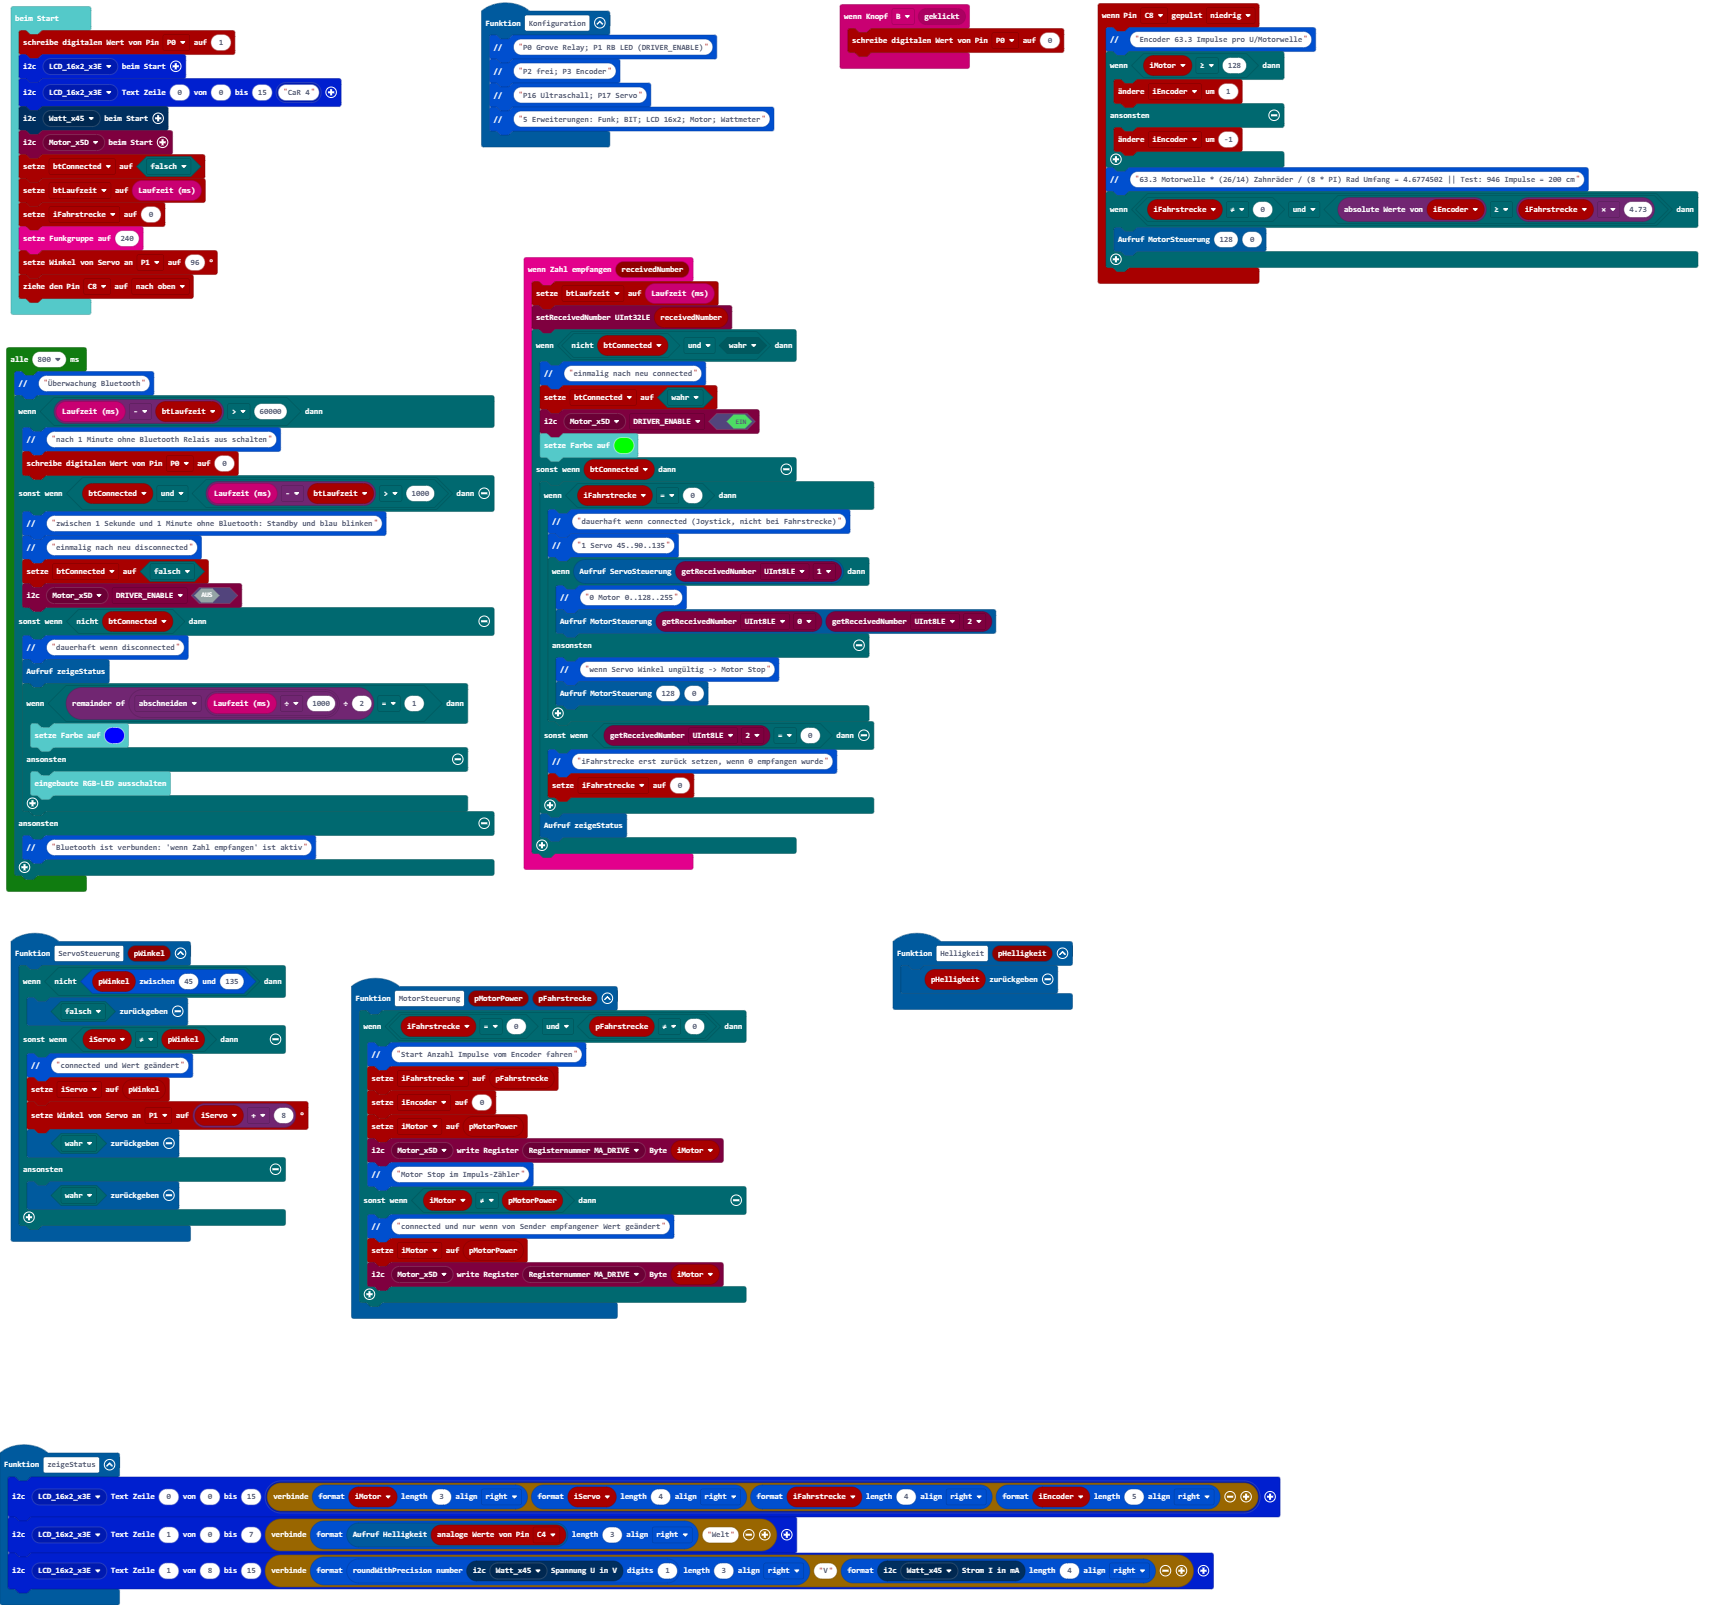
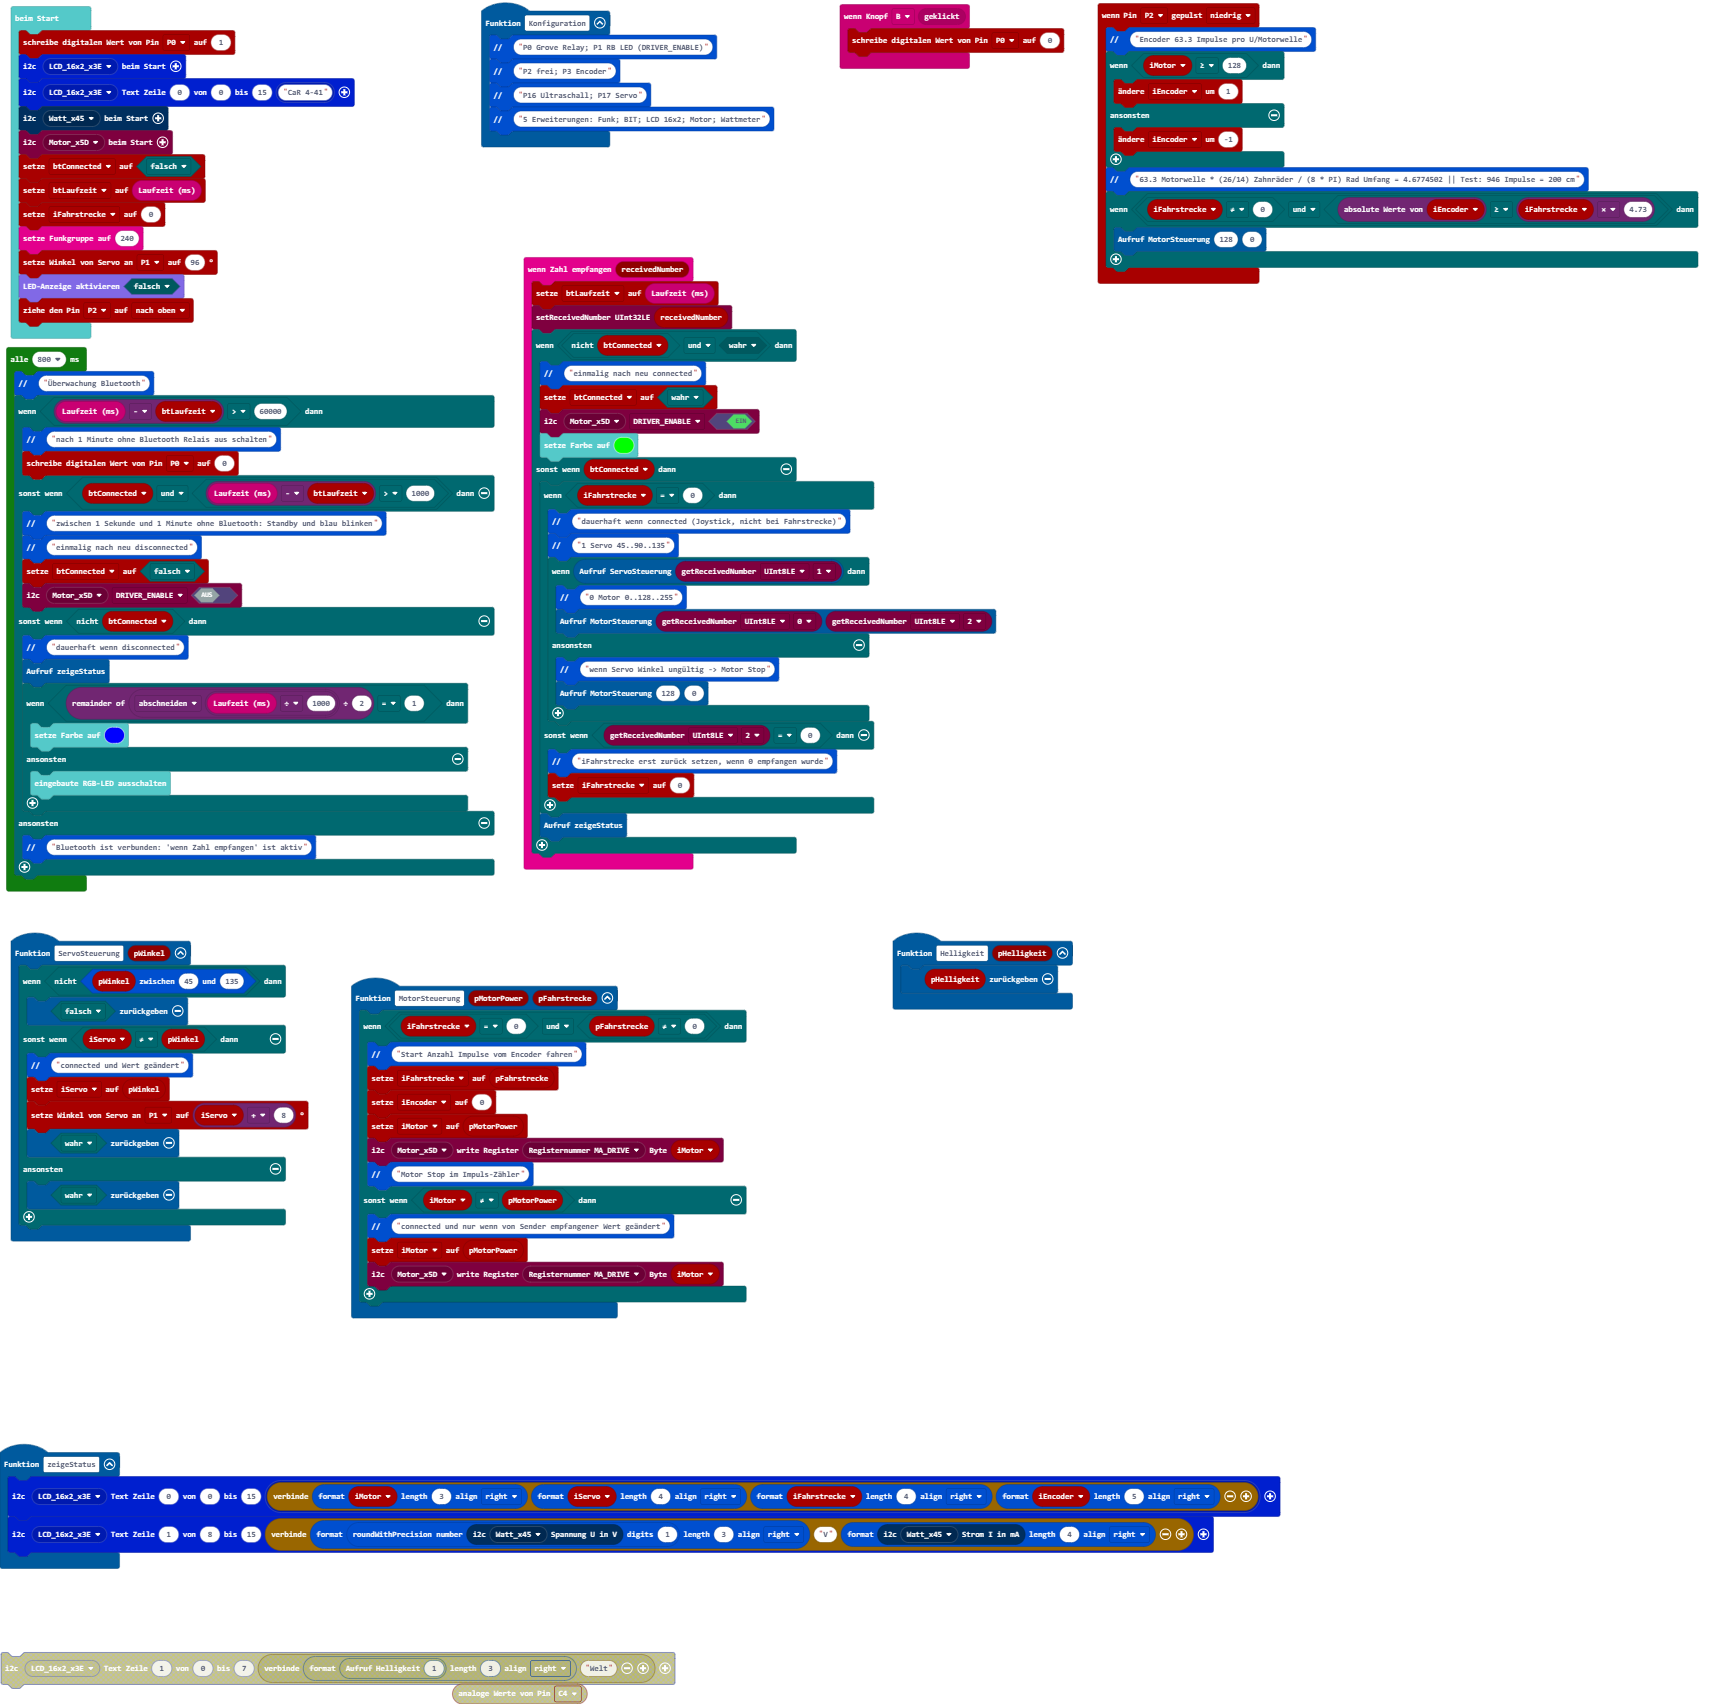
Aktualisiere main.blocks, main.ts

diff --git a/main.ts b/main.ts
@@ -40,13 +40,12 @@ function MotorSteuerung (pMotorPower: number, pFahrstrecke: number) {
 }
 function zeigeStatus () {
     lcd16x2rgb.writeText(lcd16x2rgb.lcd16x2_eADDR(lcd16x2rgb.eADDR_LCD.LCD_16x2_x3E), 0, 0, 15, lcd16x2rgb.lcd16x2_text("" + bit.formatText(iMotor, 3, bit.eAlign.right) + bit.formatText(iServo, 4, bit.eAlign.right) + bit.formatText(iFahrstrecke, 4, bit.eAlign.right) + bit.formatText(iEncoder, 5, bit.eAlign.right)))
-    lcd16x2rgb.writeText(lcd16x2rgb.lcd16x2_eADDR(lcd16x2rgb.eADDR_LCD.LCD_16x2_x3E), 1, 0, 7, "" + bit.formatText(Helligkeit(pins.analogReadPin(AnalogPin.C4)), 3, bit.eAlign.right) + "Welt")
     lcd16x2rgb.writeText(lcd16x2rgb.lcd16x2_eADDR(lcd16x2rgb.eADDR_LCD.LCD_16x2_x3E), 1, 8, 15, "" + bit.formatText(bit.roundWithPrecision(wattmeter.get_bus_voltage_V(wattmeter.wattmeter_eADDR(wattmeter.eADDR.Watt_x45)), 1), 3, bit.eAlign.right) + "V" + bit.formatText(wattmeter.get_current_mA(wattmeter.wattmeter_eADDR(wattmeter.eADDR.Watt_x45)), 4, bit.eAlign.right))
 }
 input.onButtonEvent(Button.B, input.buttonEventClick(), function () {
     pins.digitalWritePin(DigitalPin.P0, 0)
 })
-pins.onPulsed(DigitalPin.C8, PulseValue.Low, function () {
+pins.onPulsed(DigitalPin.P2, PulseValue.Low, function () {
     bit.comment("Encoder 63.3 Impulse pro U/Motorwelle")
     if (iMotor >= 128) {
         iEncoder += 1
@@ -87,7 +86,7 @@ let btLaufzeit = 0
 let btConnected = false
 pins.digitalWritePin(DigitalPin.P0, 1)
 lcd16x2rgb.initLCD(lcd16x2rgb.lcd16x2_eADDR(lcd16x2rgb.eADDR_LCD.LCD_16x2_x3E))
-lcd16x2rgb.writeText(lcd16x2rgb.lcd16x2_eADDR(lcd16x2rgb.eADDR_LCD.LCD_16x2_x3E), 0, 0, 15, lcd16x2rgb.lcd16x2_text("CaR 4"))
+lcd16x2rgb.writeText(lcd16x2rgb.lcd16x2_eADDR(lcd16x2rgb.eADDR_LCD.LCD_16x2_x3E), 0, 0, 15, lcd16x2rgb.lcd16x2_text("CaR 4-41"))
 wattmeter.reset(wattmeter.wattmeter_eADDR(wattmeter.eADDR.Watt_x45))
 qwiicmotor.init(qwiicmotor.qwiicmotor_eADDR(qwiicmotor.eADDR.Motor_x5D))
 btConnected = false
@@ -95,7 +94,8 @@ btLaufzeit = input.runningTime()
 iFahrstrecke = 0
 radio.setGroup(240)
 pins.servoWritePin(AnalogPin.P1, 96)
-pins.setPull(DigitalPin.C8, PinPullMode.PullUp)
+led.enable(false)
+pins.setPull(DigitalPin.P2, PinPullMode.PullUp)
 loops.everyInterval(800, function () {
     bit.comment("Überwachung Bluetooth")
     if (input.runningTime() - btLaufzeit > 60000) {
